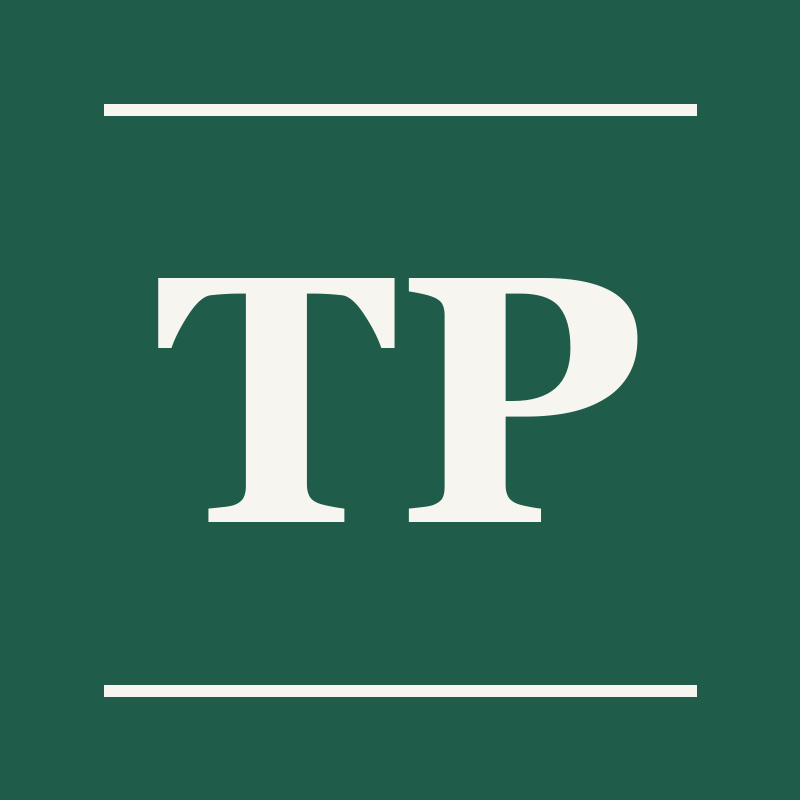
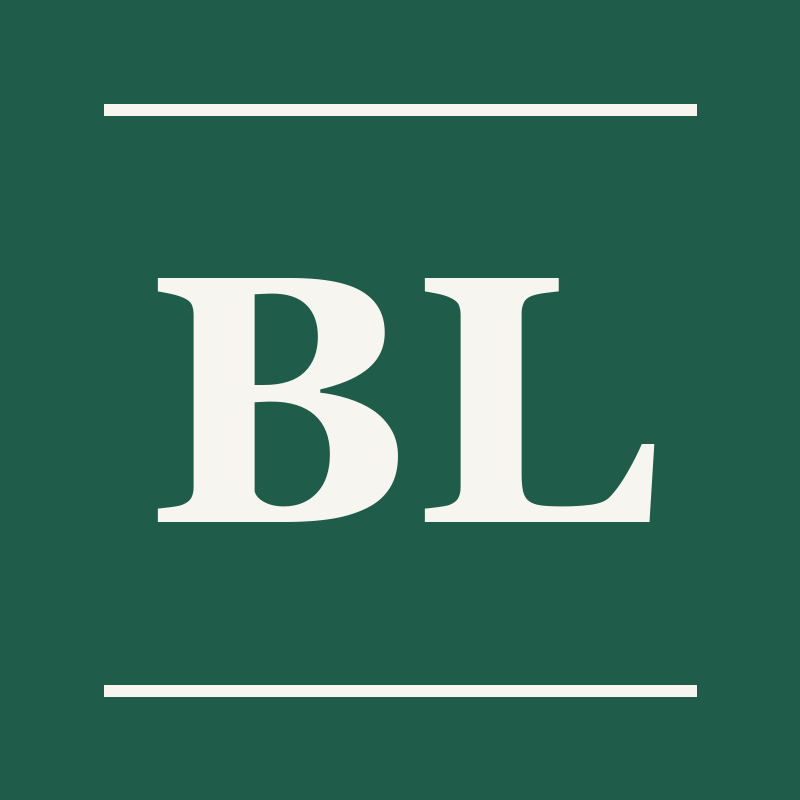
rename to Bidledger: the old name belonged to two competitors in this market

Changed region(s): [[0.1875, 0.3438, 0.5938, 0.6562], [0.625, 0.3438, 0.8125, 0.625], [0.6562, 0.5625, 0.8438, 0.6562]]

diff --git a/scripts/build.py b/scripts/build.py
@@ -168,7 +168,7 @@ def page(title, body, desc="", canonical="", extra_head=""):
 {f'<meta property="og:image" content="{BASE}/brand/og.png"><meta name="twitter:card" content="summary_large_image"><meta name="twitter:image" content="{BASE}/brand/og.png">' if BASE else ''}
 <link rel="icon" href="/brand/avatar.png" type="image/png">
 <link rel="stylesheet" href="/style.css">{extra_head}</head><body>
-<header class="mast"><div class="wrap"><a class="logo" href="/">Tender<em>Pulse</em></a>
+<header class="mast"><div class="wrap"><a class="logo" href="/">Bid<em>ledger</em></a>
 <nav><a href="/sectors.html">Sectors</a><a href="/countries.html">Countries</a>
 <a href="/cpv.html">CPV codes</a><a href="/export.html">CSV</a><a href="/api.html">API</a>
 <a href="/alerts.html">Daily alerts</a><a href="/about.html">About</a></nav></div></header>
@@ -989,7 +989,7 @@ is kept for {{ARCHIVE_DAYS}} days as a record.</p>
 European Commission's open data policy; it stays free under the same terms. Attribution
 is appreciated but not required. There is no uptime guarantee and no support &mdash; it is
 a static file on GitHub Pages. If you build something with it,
-<a href="https://github.com/jaydemks/TenderPulse">the code is here</a>.</p>
+<a href="https://github.com/jaydemks/bidledger">the code is here</a>.</p>
 
 <div class="note"><h2>The awards, as a dataset</h2>
 <p>This API covers what is open. What was already won &mdash; 374,443 contract
@@ -1004,7 +1004,7 @@ inbox instead.</p>
 
 CONTACT = (f'<a href="mailto:{CFG["contact_email"]}">{CFG["contact_email"]}</a>'
            if CFG.get("contact_email") else
-           '<a href="https://github.com/jaydemks/TenderPulse/issues">an issue on the '
+           '<a href="https://github.com/jaydemks/bidledger/issues">an issue on the '
            'repository</a>')
 
 PRIVACY_BODY = f"""<h1>Privacy</h1>

diff --git a/scripts/preview.py b/scripts/preview.py
@@ -23,7 +23,7 @@ cnt_opts = "".join(f'<option value="{c}">{html.escape(meta.country_name(c))}</op
 sec_opts = "".join(f'<option value="{d}">{html.escape(meta.cpv_label(d))}</option>'
                    for d in sorted(by_sector))
 
-page = f"""<title>TenderPulse</title>
+page = f"""<title>Bidledger</title>
 <link rel="preconnect" href="https://fonts.googleapis.com">
 <link rel="preconnect" href="https://fonts.gstatic.com" crossorigin>
 <link rel="stylesheet" href="https://fonts.googleapis.com/css2?family=IBM+Plex+Mono:wght@400;500&family=IBM+Plex+Sans:wght@400;500;600&family=Newsreader:opsz,wght@6..72,500;6..72,600&display=swap">
@@ -77,7 +77,7 @@ your country and your keywords. No portal to check, nothing to remember.</p>
 <footer><div class="wrap">
 Data source: <a href="https://ted.europa.eu/" target="_blank" rel="noopener">Tenders
 Electronic Daily</a>, the official journal of EU public procurement, re-used under the
-European Commission's open data policy. TenderPulse is an independent service and is not
+European Commission's open data policy. Bidledger is an independent service and is not
 affiliated with the European Union. Every notice links back to the authoritative text.
 </div></footer>
 

diff --git a/scripts/health.py b/scripts/health.py
@@ -30,14 +30,14 @@ def check(label, ok, detail=""):
 
 
 def get(path, timeout=45):
-    req = urllib.request.Request(BASE + path, headers={"User-Agent": "tenderpulse-health"})
+    req = urllib.request.Request(BASE + path, headers={"User-Agent": "bidledger-health"})
     with urllib.request.urlopen(req, timeout=timeout) as r:
         return r.status, r.read()
 
 
 def head(path, timeout=45):
     req = urllib.request.Request(BASE + path, method="HEAD",
-                                 headers={"User-Agent": "tenderpulse-health"})
+                                 headers={"User-Agent": "bidledger-health"})
     try:
         with urllib.request.urlopen(req, timeout=timeout) as r:
             return r.status

diff --git a/scripts/awards.py b/scripts/awards.py
@@ -30,7 +30,7 @@ from sync import pick_lang  # the same multilingual flattening the site uses
 ROOT = os.path.dirname(os.path.dirname(os.path.abspath(__file__)))
 OUT_DIR = os.path.join(ROOT, "data", "awards")
 API = "https://api.ted.europa.eu/v3/notices/search"
-USER_AGENT = "tenderpulse/1.0 (open data reuse; TED Search API)"
+USER_AGENT = "bidledger/1.0 (open data reuse; TED Search API)"
 
 # Contract award notices: the ones that name a winner.
 AWARD_TYPES = ["can-standard", "can-social", "can-desg", "can-tran"]

diff --git a/scripts/sync.py b/scripts/sync.py
@@ -35,7 +35,7 @@ FIELDS = ["publication-number", "notice-title", "buyer-name", "buyer-country",
 WINDOW_DAYS = int(os.environ.get("WINDOW_DAYS", "30"))
 PAGE_SIZE = 250
 MAX_PAGES = int(os.environ.get("MAX_PAGES", "400"))
-USER_AGENT = "tender-radar/1.0 (open data reuse; TED Search API)"
+USER_AGENT = "bidledger/1.0 (open data reuse; TED Search API)"
 
 
 def post(body, attempt=0):

diff --git a/README.md b/README.md
@@ -1,15 +1,15 @@
-# TenderPulse
+# Bidledger
 
 A searchable, daily-refreshed index of open public tenders across the European Union.
 
 The European Union publishes every public contract above threshold in *Tenders Electronic
 Daily* (TED), the supplement to the Official Journal. The data is public and free, but it
 is formatted for legal completeness rather than for the small companies that could win the
-work. TenderPulse takes the same feed and turns it into something you can search in ten
+work. Bidledger takes the same feed and turns it into something you can search in ten
 seconds: one page per notice, per sector and per country, sorted by closing date, with an
 RSS feed for anything you want to follow.
 
-**Live site:** https://jaydemks.github.io/TenderPulse
+**Live site:** https://jaydemks.github.io/bidledger
 
 ## How it works
 
@@ -48,11 +48,11 @@ from a browser.
 
 ```bash
 # how many open construction tenders are there in Italy right now?
-curl -s https://jaydemks.github.io/TenderPulse/api/c/ITA.json | jq '[.[] | select(.cpv_divisions[]=="45")] | length'
+curl -s https://jaydemks.github.io/bidledger/api/c/ITA.json | jq '[.[] | select(.cpv_divisions[]=="45")] | length'
 ```
 
 Full documentation, with the shape of a notice object:
-https://jaydemks.github.io/TenderPulse/api.html
+https://jaydemks.github.io/bidledger/api.html
 
 There is no query language — it is a static site, so you fetch a collection and filter it
 yourself. Everything is rebuilt once a day; cache it rather than polling.
@@ -116,7 +116,7 @@ accessed anonymously, and are re-used under the European Commission's open data 
 TED remains the authoritative source: every page here links back to the official notice,
 and anything binding — specifications, annexes, exact deadlines — should be read there.
 
-TenderPulse is an independent project. It is not affiliated with, endorsed by, or
+Bidledger is an independent project. It is not affiliated with, endorsed by, or
 operated by the European Union or by any contracting authority.
 
 The site sets no cookies, collects no personal data, has no analytics or tracking of
